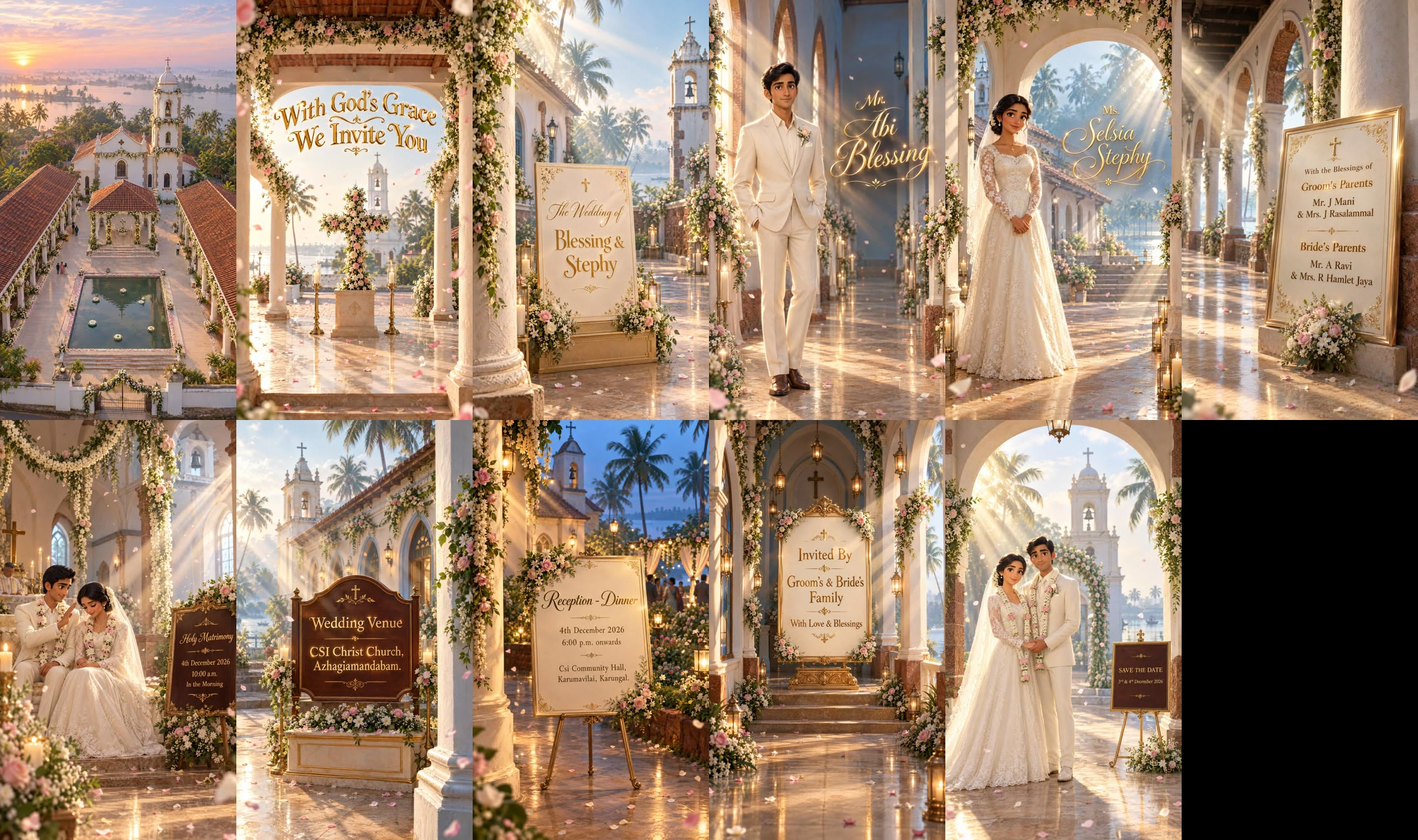
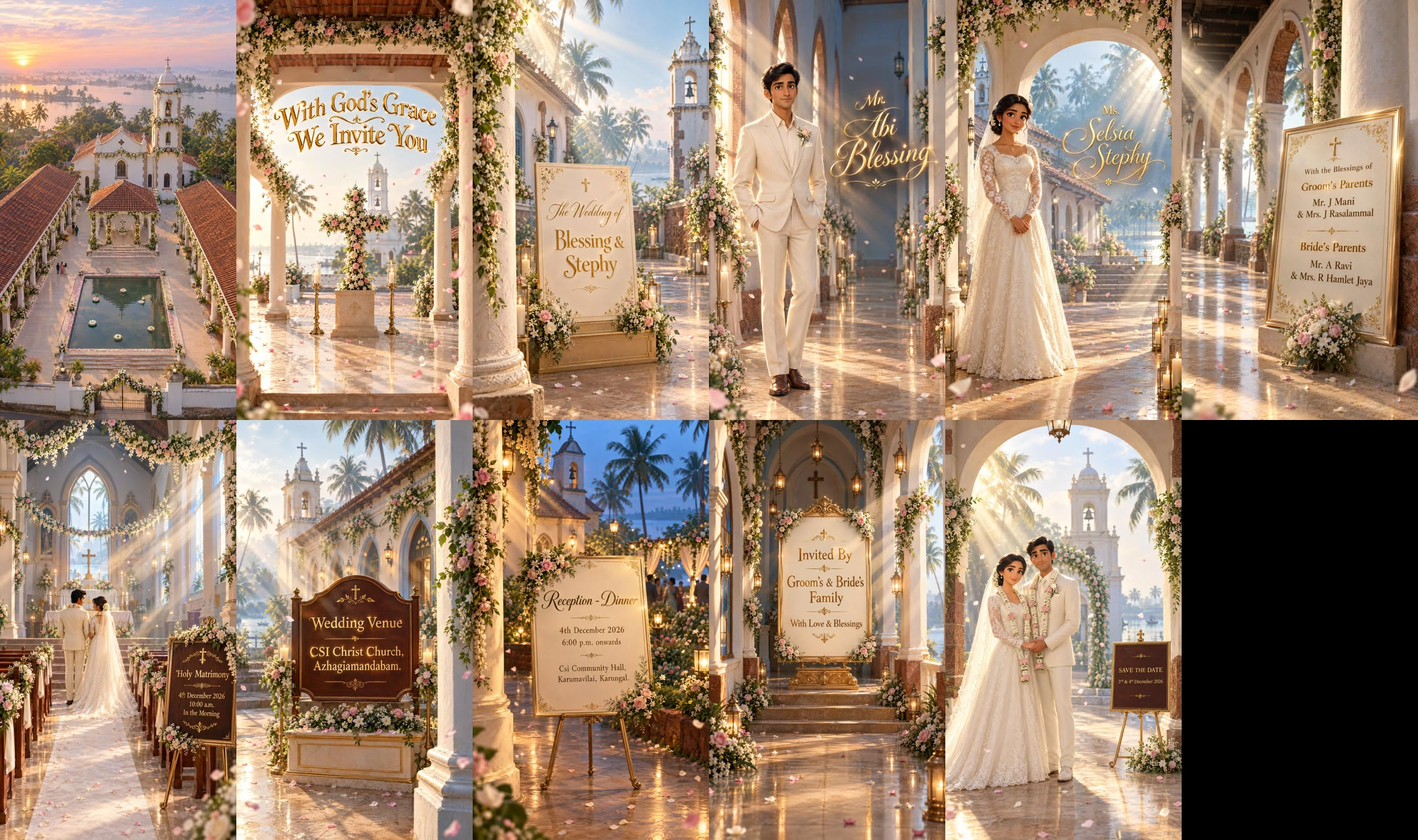
Blessing & Stephy: scene-07 aisle from behind, no priest (Akhil layout); Telegram sender

Changed region(s): [[0.0, 0.5, 0.1861, 1.0]]

diff --git a/FindMyInvite_Cursor_Handoff_2026-10-08_docs-and-code/Cursor_Handoff/productions/kerala-christian-vtv-mood/productions/blessing-stephy-20261009-001200/scripts/edit_scene07_aisle.py b/FindMyInvite_Cursor_Handoff_2026-10-08_docs-and-code/Cursor_Handoff/productions/kerala-christian-vtv-mood/productions/blessing-stephy-20261009-001200/scripts/edit_scene07_aisle.py
@@ -1,0 +1,59 @@
+#!/usr/bin/env python3
+"""Blessing & Stephy (Ashok 2026-10-08): use the Akhil & Sarah scene-07 — couple from behind in the aisle, NO priest.
+Composition from Akhil's edit_scene07_aisle.py (template couple looks); no-priest wording from Akhil rev6 template.
+Original note (2026-10-07): scene-07 Holy Matrimony -> couple standing at the front of the aisle, seen from behind,
+decorated pews, ready to get married. Edits scene-07 image_prompt_template SCENE COMPOSITION only (style/character blocks untouched),
+plus minimal 'seated'/'side sanctuary' wording in clip-06 (lands on image-7) and clip-07 (departs image-7) that would contradict the still.
+Re-resolves via the template's own fill (plain {{key}} replace)."""
+import json, hashlib
+from pathlib import Path
+P = Path(__file__).resolve().parent.parent
+import shutil, datetime
+shutil.copy2(P/"template.json", P/f"packets/template.before-scene07-aisle-nopriest-{datetime.datetime.now():%Y%m%d-%H%M%S}.json")
+t = json.loads((P/"template.json").read_text()); prm = t['parameters']
+def rep(s, old, new, f):
+    assert s.count(old) == 1, (f, old, s.count(old)); return s.replace(old, new)
+NOPRIEST = ("No crossfade, text morph, duplicate board or foreground/background copies of people. "
+ "NO PRIEST: there is no priest, no officiant and no other people anywhere in the church nave or at the altar — only the bride and groom. "
+ "The decorated altar (candles, ivory drape, altar cross) stays empty and unchanged; no figure appears or materializes there.")
+s7 = t['scenes'][6]; assert s7['id'] == 'scene-07'
+head, sep, old_comp = s7['image_prompt_template'].partition("SCENE COMPOSITION:\n"); assert sep
+new_comp = ("Standing-eye-height view from directly BEHIND the couple, looking straight down the decorated central church aisle toward the altar, "
+"inside the church nave reached by turning LEFT at a right-angle corner of the cloister. The consistent groom and bride STAND together side by side "
+"at the FRONT of the aisle just before the altar steps, seen from behind, groom on the LEFT and bride on the RIGHT, close together, ready to get married. "
+"Their backs face the camera: the groom's ivory formal suit and soft black side-parted hair; the bride's elegant low bun, soft veil flowing down her back "
+"with white jasmine accents, and the train of her ivory lace-and-silk gown resting on the aisle. Their heads turn very slightly toward each other so only a soft "
+"hint of profile shows. Both now wear delicate white-and-pale-pink floral garlands over unchanged clothes. The couple occupy the center-left middle ground, "
+"full bodies visible, about 40 percent of frame height. Both sides of the aisle are lined with rows of polished wooden church pews receding toward the altar, "
+"every pew end decorated with a white jasmine, pale pink rose and baby's breath floral posy tied with soft ivory ribbon; a white-petal aisle runner leads up to the couple. "
+"The pews are empty and quiet, the moment just before the vows. At the far end: the altar steps, an altar table draped in ivory cloth with low white-and-pale-pink "
+"floral arrangements and soft candles, and a simple altar cross. The altar and sanctuary are completely EMPTY of people: no priest, no officiant, "
+"no other people anywhere in the church — only the bride and groom. "
+"Cream-plaster columns and tall arched windows line the nave. In the RIGHT foreground, standing beside the front-right pews and clearly separate from the couple, "
+"is ONE independent dark mahogany timing sign in an ornate champagne-gold frame on a gold easel, turned to face the camera, generously sized (about 32 percent of "
+"frame width) and easy to read, all four corners visible and nothing overlapping it, exact illuminated gold lettering: '{{ceremony_lines}}'. "
+"Thick white jasmine and baby's breath garlands hang overhead and soft diagonal SUNRAYS from high side arched windows rake down the aisle across the couple, "
+"haze and pews; warm candlelight gives subtle secondary highlights. Quietly suspended individual petals are distributed at several depths, never a mass burst. "
+"All flower arrangements are grounded.")
+s7['image_prompt_template'] = head + sep + new_comp
+s7['name'] = "Holy Matrimony: couple standing at the front of the aisle, seen from behind"
+c6 = t['clips'][5]; f = 'clip-06'; v = c6['video_prompt_template']
+v = rep(v, "After braking: a slow slight crane DOWN toward seated eye height, with almost no forward translation.",
+           "After braking: a slow slight crane DOWN toward standing eye height behind the couple, with almost no forward translation.", f)
+v = rep(v, "Rotate LEFT about 90 degrees around the pillar to reveal the SIDE sanctuary holding the seated couple.",
+           "Rotate LEFT about 90 degrees around the pillar to reveal the decorated church aisle, the couple standing together at its front near the altar, seen from behind.", f)
+v = rep(v, "Groom's hand makes only a tiny tender blessing motion.", "The couple stay standing still, backs to camera; only the veil sways slightly.", f)
+v = rep(v, "No crossfade, text morph, duplicate board or foreground/background copies of people.", NOPRIEST, f)
+c6['video_prompt_template'] = v
+c6['camera'] = rep(c6['camera'], "toward seated eye height", "toward standing eye height behind the couple", f+'.camera')
+c7 = t['clips'][6]; f = 'clip-07'; v = c7['video_prompt_template']
+v = rep(v, "The seated ceremony and its board sweep screen left.", "The standing couple in the aisle and the ceremony board sweep screen left.", f)
+v = rep(v, "No crossfade, text morph, duplicate board or foreground/background copies of people.", NOPRIEST, f)
+c7['video_prompt_template'] = v
+def fill(s):
+    for k, val in prm.items(): s = s.replace("{{"+k+"}}", val)
+    assert '{{' not in s; return s
+s7['image_prompt'] = fill(s7['image_prompt_template'])
+for c in (c6, c7): c['video_prompt'] = fill(c['video_prompt_template'])
+out = json.dumps(t, indent=2, ensure_ascii=False) + "\n"
+(P/"template.json").write_text(out); print("template sha", hashlib.sha256(out.encode()).hexdigest())

diff --git a/FindMyInvite_Cursor_Handoff_2026-10-08_docs-and-code/Cursor_Handoff/productions/kerala-christian-vtv-mood/productions/blessing-stephy-20261009-001200/scripts/edit_still.py b/FindMyInvite_Cursor_Handoff_2026-10-08_docs-and-code/Cursor_Handoff/productions/kerala-christian-vtv-mood/productions/blessing-stephy-20261009-001200/scripts/edit_still.py
@@ -1,0 +1,38 @@
+#!/usr/bin/env python3
+"""Image EDIT of an existing production still with openai/gpt-image-2.5-flare (input_images = our own generated still only).
+Input uploaded via Replicate Files API. One paid call, no auto retry. Output padded/scaled to 720x1280 like generate_stills.py.
+usage: edit_still.py <scene-id> <tag> <input_image_path> <prompt_file>"""
+import json, hashlib, os, subprocess, sys, time
+from datetime import datetime
+from pathlib import Path
+import requests
+R = Path(__file__).resolve().parent.parent
+A = R/"assets/output/kerala-christian-v1"; L = R/"logs/image"; J = R/"packets/IMAGE_JOB"
+MODEL = "openai/gpt-image-2.5-flare"; TOK = os.environ["REPLICATE_API_TOKEN"]; AU = {"Authorization": f"Bearer {TOK}"}
+now = lambda: datetime.now().astimezone().isoformat(); sha = lambda b: hashlib.sha256(b).hexdigest()
+sid, tag, inp, pf = sys.argv[1:5]; idx = int(sid.split('-')[1]); prompt = Path(pf).read_text().strip()
+out = A/f"image-{idx}-{tag}.jpg"; st_path = L/f"{sid}-{tag}.status.json"
+st = {"job_id": f"IMG-{sid}-{tag}", "scene_id": sid, "attempt": tag, "production_id": R.name, "model": MODEL, "provider": "replicate",
+      "generation": "image-edit", "input_image": inp, "input_image_sha256": sha(Path(inp).read_bytes()), "prompt_file": pf,
+      "prompt_sha256": sha(prompt.encode()), "output_path": str(out), "paid_calls": 0, "status": "uploading", "ts_local": now()}
+w = lambda: st_path.write_text(json.dumps(st, indent=2) + "\n"); w()
+J.joinpath(f"{sid}-{tag}.json").write_text(json.dumps({"job_type": "IMAGE_EDIT_JOB", **{k: st[k] for k in ("job_id","scene_id","attempt","model","input_image","input_image_sha256","output_path")}, "edit_prompt": prompt}, indent=2, ensure_ascii=False))
+up = requests.post("https://api.replicate.com/v1/files", headers=AU, files={"content": (Path(inp).name, open(inp, "rb"), "image/jpeg")}, timeout=120)
+up.raise_for_status(); furl = up.json()["urls"]["get"]; st.update(file_url=furl, status="submitting"); w()
+payload = {"input": {"prompt": prompt, "input_images": [furl], "aspect_ratio": "9:16", "quality": "high", "output_format": "jpeg"}}
+r = requests.post(f"https://api.replicate.com/v1/models/{MODEL}/predictions", headers={**AU, "Content-Type": "application/json", "Prefer": "wait=60"}, json=payload, timeout=180)
+data = r.json()
+if r.status_code not in (200, 201, 202): st.update(status="failed_http", http=r.status_code, error=data); w(); sys.exit(1)
+st.update(paid_calls=1, request_id=data.get("id"), status=data.get("status")); w()
+while data.get("status") in ("starting", "processing", "queued"):
+    time.sleep(5); data = requests.get(f"https://api.replicate.com/v1/predictions/{data['id']}", headers=AU, timeout=60).json()
+if data.get("status") != "succeeded": st.update(status="failed", error=data.get("error")); w(); sys.exit(1)
+o = data["output"]; url = o[0] if isinstance(o, list) else o
+work = Path(f"/tmp/{R.name}-{sid}-{tag}"); work.mkdir(exist_ok=True); raw = work/"raw.jpg"; raw.write_bytes(requests.get(url, timeout=120).content)
+tmp = work/"out.jpg"
+subprocess.run(["ffmpeg","-y","-loglevel","error","-i",str(raw),"-vf","scale=720:1280:force_original_aspect_ratio=decrease,pad=720:1280:(ow-iw)/2:(oh-ih)/2:color=black","-frames:v","1","-q:v","2",str(tmp)],check=True)
+rawdims = subprocess.run(["ffprobe","-v","error","-select_streams","v:0","-show_entries","stream=width,height","-of","csv=p=0",str(raw)],capture_output=True,text=True).stdout.strip()
+out.write_bytes(tmp.read_bytes()); b = out.read_bytes()
+st.update(status="GENERATED", output_url=url, raw_dims=rawdims, raw_sha256=sha(raw.read_bytes()), width=720, height=1280, sha256=sha(b), size_bytes=len(b),
+          metrics=data.get("metrics"), ts_local=now()); w()
+print(sid, tag, "GENERATED", st["request_id"], st["sha256"][:16], "raw", rawdims, "paid 1")

diff --git a/FindMyInvite_Cursor_Handoff_2026-10-08_docs-and-code/Cursor_Handoff/productions/kerala-christian-vtv-mood/productions/blessing-stephy-20261009-001200/scripts/send_telegram.py b/FindMyInvite_Cursor_Handoff_2026-10-08_docs-and-code/Cursor_Handoff/productions/kerala-christian-vtv-mood/productions/blessing-stephy-20261009-001200/scripts/send_telegram.py
@@ -1,0 +1,41 @@
+#!/usr/bin/env python3
+"""Blessing & Stephy stills -> Telegram (Eventsblr bot, Ashok's chat), same mechanics as scripts/kc-v1-recreate/send_telegram.py.
+Token: env TELEGRAM_EVENTSBLR_BOT_TOKEN (Cursor Cloud secret), else /home/box/shared/secrets/telegram-eventsblr.token. Never printed.
+usage: send_telegram.py [scene numbers...]   (default: all 11; albums of <=6 so each album fits sendMediaGroup's 10 limit)"""
+import json, os, sys, requests
+from datetime import datetime
+from pathlib import Path
+R = Path(__file__).resolve().parent.parent
+A = R/"assets/output/kerala-christian-v1"
+tok_file = Path("/home/box/shared/secrets/telegram-eventsblr.token")
+TOKEN = os.environ.get("TELEGRAM_EVENTSBLR_BOT_TOKEN") or (tok_file.read_text().strip() if tok_file.exists() else None)
+if not TOKEN: sys.exit("TELEGRAM_EVENTSBLR_BOT_TOKEN missing (add it in Cursor Dashboard > Cloud Agents > Secrets)")
+CHAT = os.environ.get("TELEGRAM_CHAT_ID", "2002649357")
+COUPLE = "Blessing & Stephy"
+T = json.loads((R/"template.json").read_text()); P = T["parameters"]
+names = {1:"Aerial church establish",2:"Porch blessing title",3:"Family invitation board",4:"Groom portrait",5:"Bride portrait",6:"Families blessing plaque",
+         7:"Holy Matrimony (aisle, from behind)",8:"Venue board",9:"Reception board",10:"Hosts board",11:"Couple + Save the Date"}
+def text(i):
+    tpl = T["scenes"][i-1].get("image_prompt_template") or ""
+    return " / ".join(P[k].replace("\n", " / ") for k in P if "{{"+k+"}}" in tpl) or "(no text)"
+ASK = "Reply APPROVE to start video generation, or tell me which scene to change. No video is generated until you approve."
+scenes = [int(x) for x in sys.argv[1:]] or list(range(1, 12))
+groups = [scenes[i:i+6] for i in range(0, len(scenes), 6)]
+res = []
+for n, group in enumerate(groups, 1):
+    media, files = [], {}
+    for i in group:
+        cap = f"{COUPLE} · Scene {i:02d} – {names[i]}\nText: {text(i)}"
+        if i == group[0]: cap = f"{COUPLE} · stills for approval ({R.name}) · album {n}/{len(groups)}\n{ASK}\n\n" + cap
+        media.append({"type": "photo", "media": f"attach://p{i}", "caption": cap[:1024]})
+        files[f"p{i}"] = (f"image-{i}.jpg", open(A/f"image-{i}.jpg", "rb"), "image/jpeg")
+    r = requests.post(f"https://api.telegram.org/bot{TOKEN}/sendMediaGroup", data={"chat_id": CHAT, "media": json.dumps(media, ensure_ascii=False)}, files=files, timeout=120)
+    j = r.json()
+    ids = [m["message_id"] for m in j.get("result", [])] if j.get("ok") else None
+    res.append({"scenes": group, "http": r.status_code, "ok": j.get("ok"), "message_ids": ids, "error": None if j.get("ok") else j.get("description")})
+    print(json.dumps(res[-1]))
+    if not j.get("ok"): break
+log = R/"logs/TELEGRAM_SEND.json"
+hist = json.loads(log.read_text()) if log.exists() else {"chat_id": CHAT, "sends": []}
+hist["sends"].append({"ts_local": datetime.now().astimezone().isoformat(), "albums": res})
+log.write_text(json.dumps(hist, indent=2) + "\n")
